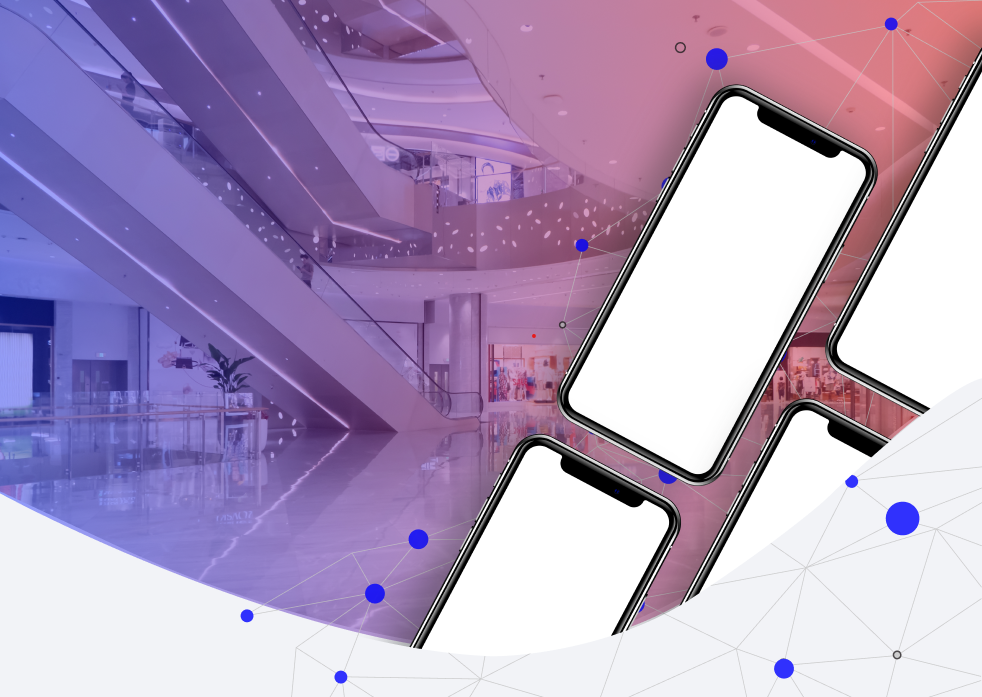
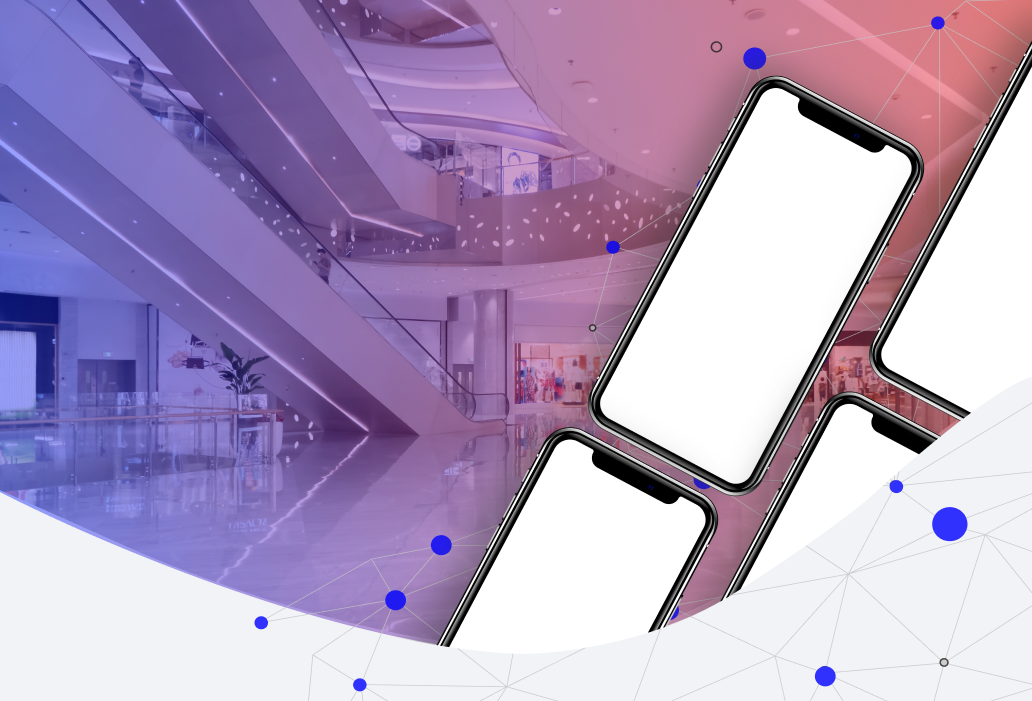
update

diff --git a/src/components/Banner/Banner.js b/src/components/Banner/Banner.js
@@ -14,18 +14,22 @@ function Banner() {
     <>
       <div className="bannerimage" id="Home">
         <div className="container">
-          <div className="text-light Banner">
-            <h1 className="mb-3">{data.title1}</h1>
-            <h3 className="mb-4">{data.title2}</h3>
-            <button type="button" className="btn-danger rounded-pill btn-Login">
-              Login / Register
-            </button>
-          </div>
-
-          <div className="card-Banner shadow-Banner">
-            <div>
-              <h2 className="mb-3">{data.titleB1}</h2>
-              <p className="card-Text">{data.titleB2}</p>
+          <div className="container-Banner">
+            <div className="text-light Banner">
+              <h1 className="mb-3">{data.title1}</h1>
+              <h3 className="mb-4">{data.title2}</h3>
+              <button
+                type="button"
+                className="btn-danger rounded-pill btn-Login"
+              >
+                Login / Register
+              </button>
+            </div>
+            <div className="card-Banner shadow-Banner">
+              <div>
+                <h2 className="mb-3">{data.titleB1}</h2>
+                <p className="card-Text">{data.titleB2}</p>
+              </div>
             </div>
           </div>
         </div>

diff --git a/src/components/Banner/Banner.css b/src/components/Banner/Banner.css
@@ -4,8 +4,13 @@
 }
 
 .Banner {
-  padding-top: 300px;
-  padding-bottom: 400px;
+  padding-top: 150px;
+  padding-bottom: 450px;
+}
+
+.container-Banner {
+  padding-top: 200px;
+  padding-bottom: 100px;
 }
 
 .Banner h1 {
@@ -75,7 +80,7 @@
 .bannerimage {
   background-image: url(../../assets/images/bgbanner4.png);
   background-repeat: no-repeat;
-  height: 140vh;
+  height: auto;
   background-size: cover;
   /* overflow: hidden; */
 }

diff --git a/src/components/Content/Content.js b/src/components/Content/Content.js
@@ -40,7 +40,7 @@ function Content() {
     <>
       <div className="conimage" id="Service">
         <div className="container">
-          <div className="d-flex align-content-center justify-content-center flex-wrap">
+          <div className="d-flex align-content-center justify-content-center flex-wrap pt-5">
             {dataCard.map((item) => (
               <div
                 key={item.title1}
